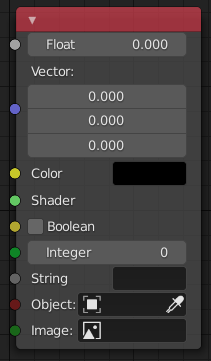
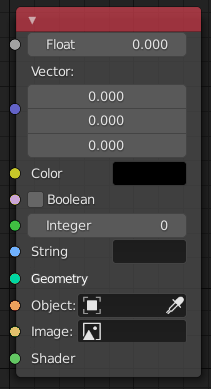
node sockets colors: image add back image socket (only custom)

Changed region(s): [[0.0284, 0.0305, 0.9668, 0.9751], [0.0284, 0.2438, 0.1137, 0.3352], [0.0853, 0.0, 0.1137, 0.0305]]

diff --git a/manual/interface/controls/nodes/parts.rst b/manual/interface/controls/nodes/parts.rst
@@ -49,7 +49,7 @@ Float (gray)
    Common use: Alpha maps and value options for a node.
 Vector (dark blue)
    Indicates vector, coordinate and normal information.
-Color/Image (yellow)
+Color (yellow)
    Indicates that color information needs to be input or will be output from the node.
    Depending on the node tree type, the color has an alpha channel or not.
 Boolean (pink)
@@ -62,6 +62,8 @@ Geometry (turquoise)
    Used in :doc:`Geometry Nodes </modeling/modifier/nodes/index>`.
 Object (orange)
    Used to pass an object data-block.
+Image (apricot)
+   Used to pass an image data-block.
 Shader (bright green)
    Used for shaders in :doc:`Cycles </render/cycles/index>` and :doc:`Eevee </render/eevee/index>`.
 

diff --git a/manual/modeling/surfaces/properties/active_spline.rst b/manual/modeling/surfaces/properties/active_spline.rst
@@ -9,7 +9,7 @@ Active Spline
    :Mode:      Edit Mode
    :Menu:      :menuselection:`Properties --> Curve --> Active Spline`
 
-.. seealso:
+.. seealso::
 
    :doc:`Active Spline </modeling/curves/properties/active_spline>` for curves.
 

diff --git a/manual/modeling/modifiers/nodes/attribute/attribute_math.rst b/manual/modeling/modifiers/nodes/attribute/attribute_math.rst
@@ -1,4 +1,4 @@
-.. index: Nodes; Attribute; Attribute Math
+.. index:: Nodes; Attribute; Attribute Math
 .. _bpy.types.GeometryNodeAttributeMath:
 
 **************
